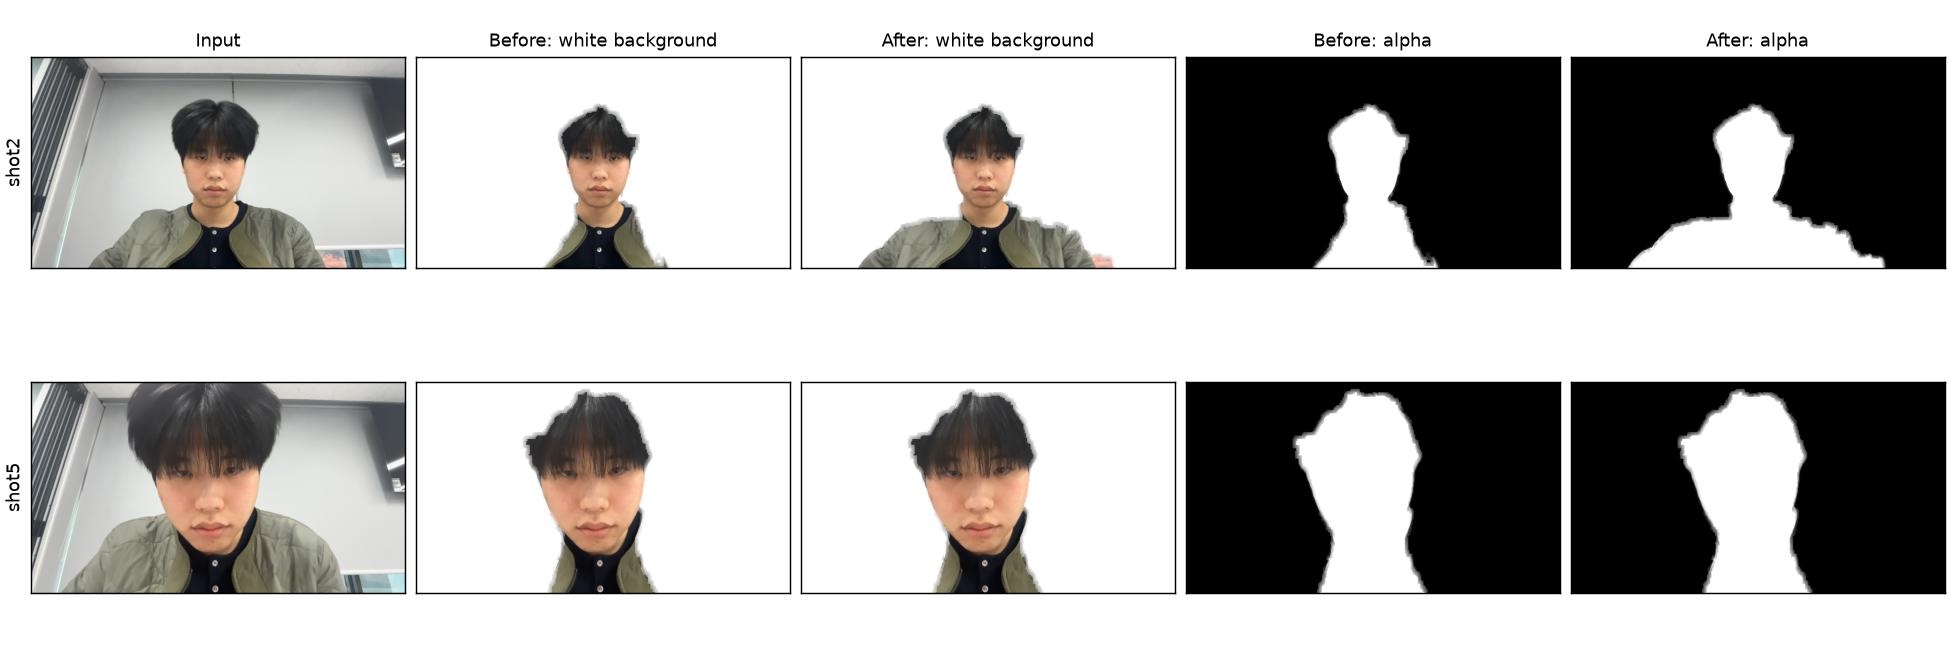
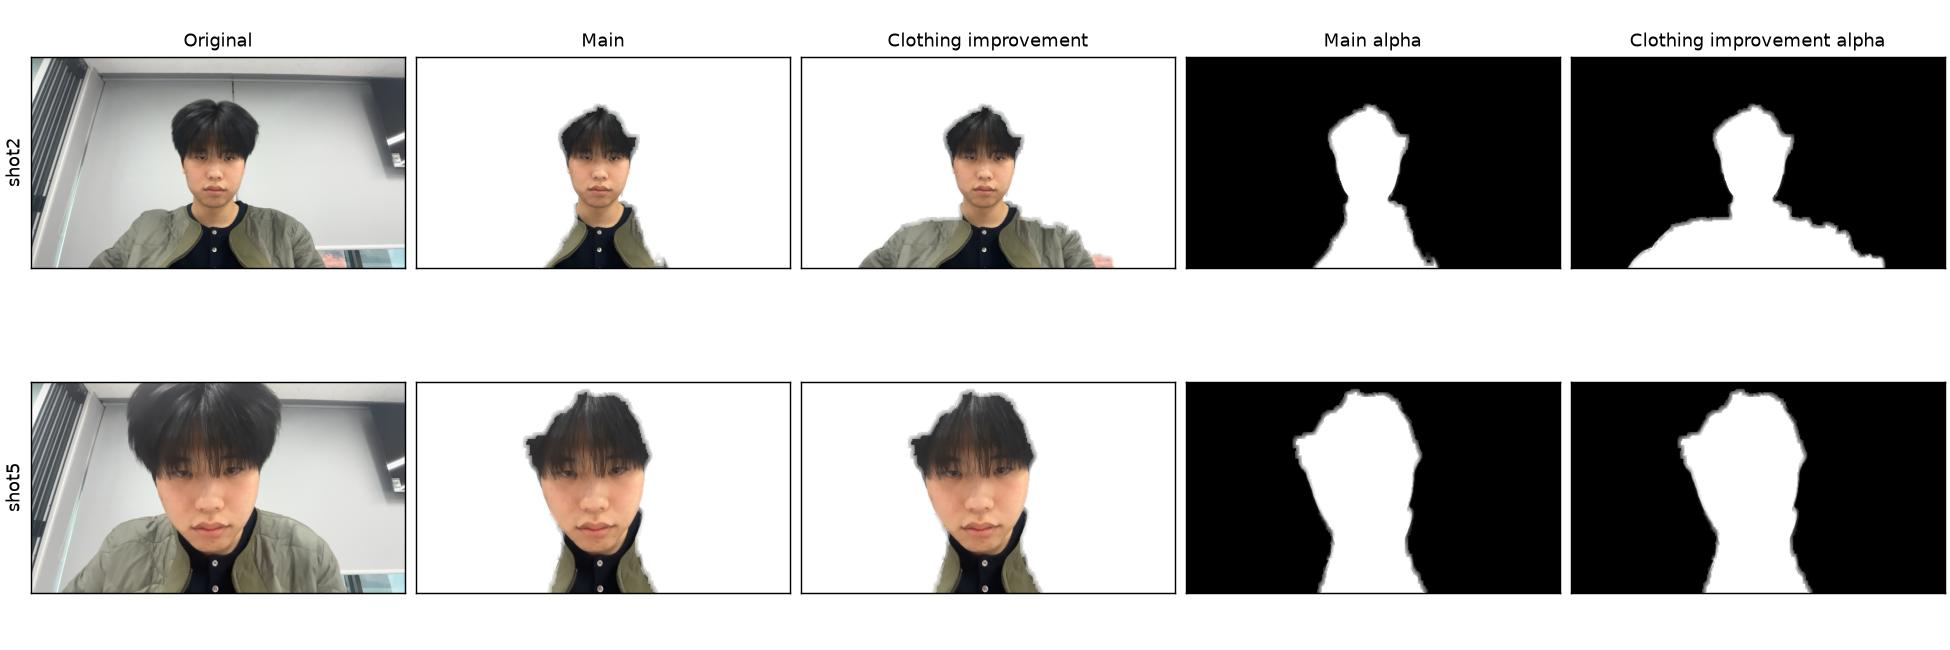
Clarify clothing comparison labels

diff --git a/tools/eval_clothing.py b/tools/eval_clothing.py
@@ -226,12 +226,12 @@ def main():
         writer.writerows(rows)
 
     if fba is None:
-        write_sheets(panels, ["Input", "Before: white background", "After: white background",
-                              "Before: alpha", "After: alpha"], "comparison", args.out)
+        write_sheets(panels, ["Original", "Main", "Clothing improvement",
+                              "Main alpha", "Clothing improvement alpha"], "comparison", args.out)
     else:
-        write_sheets(panels, ["Input", "Before: main", "FBA: main trimap", "After: ours"],
+        write_sheets(panels, ["Original", "Main", "FBA", "Clothing improvement"],
                      "comparison", args.out)
-        write_sheets(fba_panels, ["Input", "FBA trimap", "FBA alpha"], "trimap", args.out)
+        write_sheets(fba_panels, ["Original", "FBA trimap", "FBA alpha"], "trimap", args.out)
     if args.sample_figure:
         import matplotlib.pyplot as plt
 

diff --git a/README.md b/README.md
@@ -2,15 +2,15 @@
 
 # Module B Clothing-Recovery Experiments
 
-![Before, FBA baseline, and after for the representative jacket and close-up](docs/evaluation/clothing/fba/comparison-1.jpg)
+![Original, Main, FBA, and Clothing improvement for shot2 and shot5](docs/evaluation/clothing/fba/comparison-1.jpg)
 
-*Top to bottom: shot2 and shot5. Each row: input / main before / FBA with a main-derived trimap / ours after. Composites use a white background.*
+*Top to bottom: shot2 and shot5. Left to right: **Original** (input photo), **Main** (existing main result), **FBA** (FBA model result), and **Clothing improvement** (improved clothing-recovery result). FBA receives a trimap (known foreground, known background, and unknown regions) automatically derived from the Main alpha mask and facial landmarks. The three result columns are composited on white.*
 
-![Before, FBA baseline, and after for the four dark-room photos](docs/evaluation/clothing/fba/comparison-2.jpg)
+![Original, Main, FBA, and Clothing improvement for the four dark-room photos](docs/evaluation/clothing/fba/comparison-2.jpg)
 
 *Top to bottom: test1–test4. The column order is the same.*
 
-![Before, FBA baseline, and after for the remaining four photos](docs/evaluation/clothing/fba/comparison-3.jpg)
+![Original, Main, FBA, and Clothing improvement for the remaining four photos](docs/evaluation/clothing/fba/comparison-3.jpg)
 
 *Top to bottom: test5, test6, test8, test9. The column order is the same.*
 
@@ -61,7 +61,7 @@ FBA estimates foreground, background, and alpha from an image and a **trimap**, 
 
 ![FBA input, automatic trimap, and alpha for the jacket photos](docs/evaluation/clothing/fba/trimap-1.jpg)
 
-*Left to right: input / trimap / FBA alpha. In the trimap, white is forced foreground, black is forced background, and gray is unknown. The broad gray body region includes background as well as clothing. [Dark-room trimaps](docs/evaluation/clothing/fba/trimap-2.jpg) and [remaining trimaps](docs/evaluation/clothing/fba/trimap-3.jpg) show the other eight photos.*
+*Left to right: Original / FBA trimap / FBA alpha. In the trimap, white is forced foreground, black is forced background, and gray is unknown. The broad gray body region includes background as well as clothing. [Dark-room trimaps](docs/evaluation/clothing/fba/trimap-2.jpg) and [remaining trimaps](docs/evaluation/clothing/fba/trimap-3.jpg) show the other eight photos.*
 
 This is **FBA conditioned on the main mask and landmarks**, not an independent automatic segmentation baseline or a manually corrected trimap. Background erroneously marked sure foreground cannot be removed, and clothing marked sure background cannot be recovered. The wide body region allows FBA to decide on sleeves outside the old mask, but also allows wall leakage. The unknown share of the live trimaps ranges from 31.1% to 59.7% (median 42.5%); this describes the input, not quality. For example, FBA retains more jacket in shot2–shot4, but shot5's jacket still fades, and test1/test9 have substantial background haze.
 
@@ -69,7 +69,7 @@ FBA runs on the same resized 640 px input as the app comparisons, on CPU with fo
 
 The live path calculates color decisions and filter coefficients on a **half-size grid, `s=2`**, from the 640 px input. The full-grid comparison applies the shutter algorithm's **`s=1` to the same 640 px input** and derives a new FBA trimap from that mode's main alpha: [jackets](docs/evaluation/clothing/full-grid-fba/comparison-1.jpg), [dark room](docs/evaluation/clothing/full-grid-fba/comparison-2.jpg), and [other photos](docs/evaluation/clothing/full-grid-fba/comparison-3.jpg). On this path the shoulders in shot2 and shot4 remain fragmented, while shot3 gains more than in live mode. **This is not an original-resolution export evaluation**, nor evidence that the two paths produce identical boundaries.
 
-Full-grid FBA trimaps and alphas: [jackets](docs/evaluation/clothing/full-grid-fba/trimap-1.jpg), [dark room](docs/evaluation/clothing/full-grid-fba/trimap-2.jpg), [other photos](docs/evaluation/clothing/full-grid-fba/trimap-3.jpg). The earlier main-versus-ours live alpha sheets remain available for [jackets](docs/evaluation/clothing/comparison-1.jpg), [dark room](docs/evaluation/clothing/comparison-2.jpg), and [other photos](docs/evaluation/clothing/comparison-3.jpg).
+Full-grid FBA trimaps and alphas: [jackets](docs/evaluation/clothing/full-grid-fba/trimap-1.jpg), [dark room](docs/evaluation/clothing/full-grid-fba/trimap-2.jpg), [other photos](docs/evaluation/clothing/full-grid-fba/trimap-3.jpg). The earlier main-versus-ours live alpha sheets remain available for [jackets](docs/evaluation/clothing/comparison-1.jpg), [dark room](docs/evaluation/clothing/comparison-2.jpg), and [other photos](docs/evaluation/clothing/comparison-3.jpg). Their columns are Original / Main / Clothing improvement / Main alpha / Clothing improvement alpha.
 
 The [live CSV](docs/evaluation/clothing/measurements.csv) and [full-grid CSV](docs/evaluation/clothing/full-grid/measurements.csv) record thresholds, sample-candidate counts, application status, and single-run times for all 12 photos. Across the set, live mode adds 161,275 pixels and removes 9; full grid adds 122,211 and removes 6. Removed pixels had alpha above 0.5 before and at most 0.5 after. Recovery only adds to the binary mask **before** cleanup; subsequent cleanup and guided-filter recomputation can also change existing edges.
 
